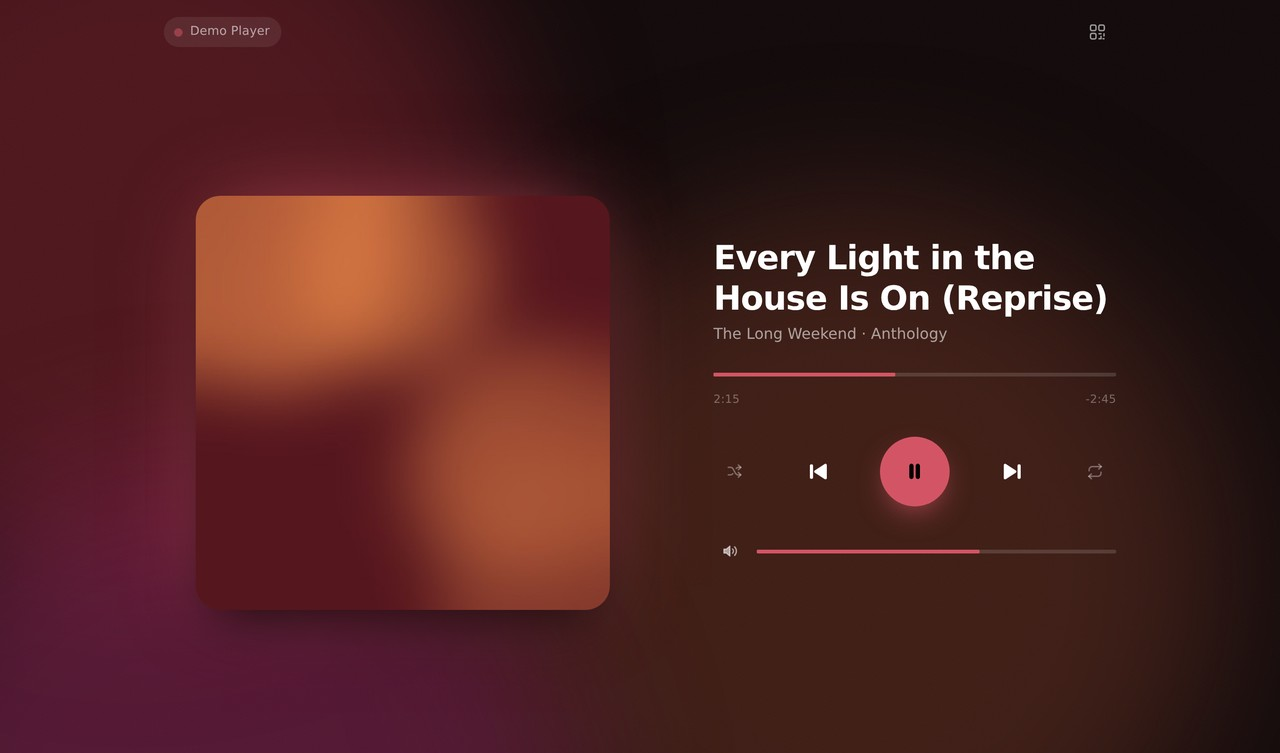
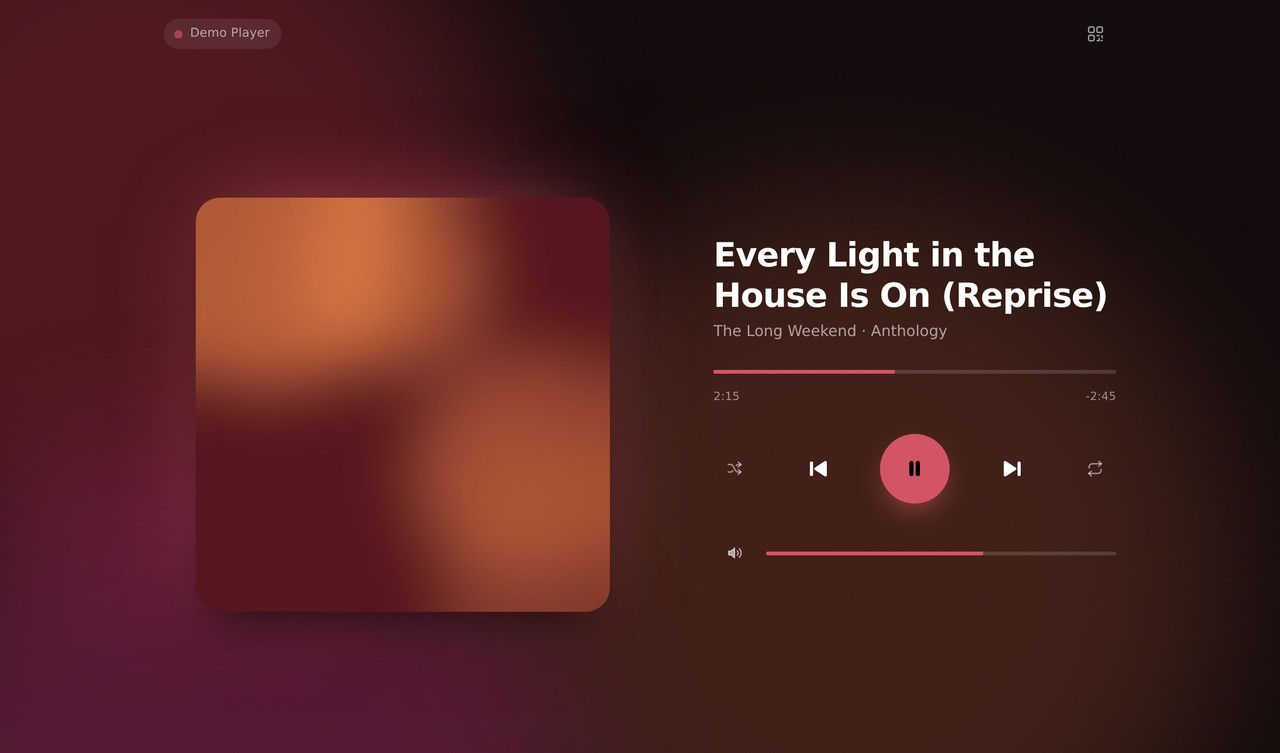
Fix layout overflow on small phones, and a sheet you could not dismiss
Found by measuring the built page rather than reading it.

The artwork was sized from the viewport, but it has to fit what is left after the
title, scrubber, transport and volume have taken theirs -- a much smaller number.
On a 360x640 Android the page overflowed by 18px and on a 320-wide split view by
44px, pushing the volume row off the bottom. The stage is now a size container and
the sleeve is measured against it, so it shrinks to fit instead. Verified at six
viewport sizes from 320x568 up: no overflow anywhere.

The sheet backdrop listener was registered with once:true, so the first tap
anywhere inside the dialog consumed it -- tap the QR code and tap-to-dismiss was
dead for good, with no back gesture to fall back on in a home-screen app. It is
registered once per sheet at boot now, and no longer accumulates a listener per
open.

Also:
- The 12px timestamps sat at 3.11:1, below AA. Split the faint ink token by role
  so text gets the readable one and icons keep the lighter.
- Every control is now at least 44px to a thumb, expanded around the rails and
  the source chip rather than by making them look chunkier.
- Reduced motion was blanket-killing transitions, including the cross-fades that
  are the accepted substitute for motion; it now removes movement and keeps fades.
- The ambient blobs no longer animate scale, which forced a large blurred layer to
  be re-rasterised; translation alone does not.
[…]

diff --git a/static/app.css b/static/app.css
@@ -15,7 +15,11 @@
 
   --ink: #ffffff;
   --ink-dim: rgba(255, 255, 255, 0.58);
-  --ink-faint: rgba(255, 255, 255, 0.34);
+  /* Two faint tokens, split by role. Composited over the lightest background the
+     palette can produce, alpha 0.34 gives 3.11:1 -- fine for an icon, a failure for
+     the 12px timestamps. Text uses the heavier one. */
+  --ink-faint: rgba(255, 255, 255, 0.5);
+  --ink-ghost: rgba(255, 255, 255, 0.34);
   --surface: rgba(255, 255, 255, 0.08);
   --surface-firm: rgba(255, 255, 255, 0.14);
 
@@ -78,9 +82,11 @@ body {
 .ambience span:nth-child(2) { background: var(--glow-2); top: 34%; left: 42%; animation: drift-b 41s ease-in-out infinite; }
 .ambience span:nth-child(3) { background: var(--glow-3); top: 58%; left: 8%;  animation: drift-c 47s ease-in-out infinite; }
 
-@keyframes drift-a { 50% { transform: translate3d(14%, 10%, 0) scale(1.14); } }
-@keyframes drift-b { 50% { transform: translate3d(-16%, 12%, 0) scale(0.88); } }
-@keyframes drift-c { 50% { transform: translate3d(10%, -14%, 0) scale(1.1); } }
+/* Translation only. Animating scale changes the raster scale of a blurred layer,
+   which forces the compositor to redraw it; moving it does not. */
+@keyframes drift-a { 50% { transform: translate3d(16%, 12%, 0); } }
+@keyframes drift-b { 50% { transform: translate3d(-18%, 14%, 0); } }
+@keyframes drift-c { 50% { transform: translate3d(12%, -16%, 0); } }
 
 /* A whisper of grain stops large gradients from banding on 8-bit panels. */
 .grain {
@@ -133,6 +139,17 @@ body {
 }
 .source:hover { background: var(--surface-firm); color: var(--ink); }
 .source[hidden] { display: none; }
+.source:disabled { cursor: default; }
+/* The pill draws 32px tall, which reads right in the header but is under the 44px a
+   thumb needs. Grow the target rather than the chip. */
+.source { position: relative; }
+.source::after {
+  content: "";
+  position: absolute;
+  inset-inline: 0;
+  top: -6px;
+  bottom: -6px;
+}
 .source .label { overflow: hidden; text-overflow: ellipsis; white-space: nowrap; }
 
 .link {
@@ -151,7 +168,7 @@ body[data-link="lost"]  .link { background: #f0a13c; animation: pulse 1s var(--e
 .chip {
   display: inline-grid;
   place-items: center;
-  width: 40px; height: 40px;
+  width: 44px; height: 44px;
   padding: 0;
   border: 0;
   border-radius: 50%;
@@ -167,15 +184,26 @@ body[data-link="lost"]  .link { background: #f0a13c; animation: pulse 1s var(--e
 /* -------------------------------------------------------------- album art -- */
 
 .stage {
-  flex: 1 1 auto;
+  /* `1 1 0` rather than `1 1 auto`: the stage must take the leftover space rather than
+     ask its contents how big they are, which is also what makes it a valid size
+     container below. */
+  flex: 1 1 0;
   display: grid;
   place-items: center;
   min-height: 0;
 }
 
+@supports (container-type: size) {
+  .stage { container-type: size; }
+}
+
 .art {
   position: relative;
-  width: min(82vw, 48vh, 400px);
+  /* Fallback for browsers without container queries. A viewport fraction always
+     over-estimates: on a 360x640 phone the artwork has to fit what is left after the
+     title, scrubber, transport and volume have taken theirs, which is far less than
+     half the screen -- and the page overflowed by 18px because of it. */
+  width: min(82vw, 44vh, 400px);
   aspect-ratio: 1;
   border-radius: clamp(14px, 4.5vw, 26px);
   background: rgba(255, 255, 255, 0.05);
@@ -184,6 +212,9 @@ body[data-link="lost"]  .link { background: #f0a13c; animation: pulse 1s var(--e
   box-shadow: 0 26px 60px -18px rgba(0, 0, 0, 0.85), 0 0 90px -26px var(--accent);
   transform: scale(1);
   transition: transform 620ms var(--ease-out), box-shadow var(--tint);
+  /* cqmin is the smaller edge of the stage itself, so the sleeve is measured against
+     the room it actually has. */
+  width: min(96cqmin, 400px);
   overflow: hidden;
   isolation: isolate;
 }
@@ -254,6 +285,16 @@ body[data-status="stopped"] .art { transform: scale(0.9); }
   align-items: center;
   cursor: pointer;
   touch-action: none;                 /* we own the drag */
+}
+/* The rail draws 4px but must be catchable by a thumb, so the target is grown to 44px
+   without moving anything. Events on a pseudo-element are dispatched to its own
+   element, so this needs no extra markup. */
+.rail::after {
+  content: "";
+  position: absolute;
+  inset-inline: 0;
+  top: -11px;
+  bottom: -11px;
 }
 .rail::before {
   content: "";
@@ -368,7 +409,7 @@ body[data-status="stopped"] .art { transform: scale(0.9); }
 .volume[hidden] { display: none; }
 .volume .rail { flex: 1 1 auto; }
 .volume .mute {
-  width: 34px; height: 34px;
+  width: 44px; height: 44px;
   display: grid; place-items: center;
   border: 0; padding: 0; border-radius: 50%;
   background: transparent; color: var(--ink-dim);
@@ -411,7 +452,7 @@ body[data-status="unavailable"] .volume { display: none; }
 
 .empty h2 { margin: 0; font-size: 19px; font-weight: 600; letter-spacing: -0.01em; }
 .empty p { margin: 0; max-width: 27ch; color: var(--ink-dim); font-size: 14px; line-height: 1.5; }
-.empty svg { width: 40px; height: 40px; color: var(--ink-faint); margin-bottom: 4px; }
+.empty svg { width: 40px; height: 40px; color: var(--ink-ghost); margin-bottom: 4px; }
 
 /* ------------------------------------------------------------------ sheet -- */
 
@@ -507,7 +548,7 @@ body[data-status="unavailable"] .volume { display: none; }
 }
 .sources button:hover { background: var(--surface-firm); }
 .sources button[aria-current="true"] { background: color-mix(in srgb, var(--accent) 24%, transparent); }
-.sources .dot { width: 7px; height: 7px; flex: none; border-radius: 50%; background: var(--ink-faint); }
+.sources .dot { width: 7px; height: 7px; flex: none; border-radius: 50%; background: var(--ink-ghost); }
 .sources button[aria-current="true"] .dot { background: var(--accent); }
 .sources .name { flex: 1 1 auto; overflow: hidden; text-overflow: ellipsis; white-space: nowrap; }
 .sources .now { font-size: 12px; color: var(--ink-faint); }
@@ -517,7 +558,7 @@ body[data-status="unavailable"] .volume { display: none; }
 .toast {
   position: fixed;
   left: 50%;
-  bottom: calc(22px + env(safe-area-inset-bottom));
+  bottom: max(22px, env(safe-area-inset-bottom));
   z-index: 40;
   translate: -50% 0;
   padding: 9px 16px;
@@ -536,7 +577,7 @@ body[data-status="unavailable"] .volume { display: none; }
    On a desktop the controls sit beside the artwork rather than stretching a phone
    layout across a monitor. */
 
-@media (min-width: 720px) and (orientation: landscape) {
+@media (min-width: 720px) and (min-height: 480px) {
   .shell {
     display: grid;
     grid-template-columns: minmax(0, 0.95fr) minmax(300px, 0.8fr);
@@ -562,7 +603,7 @@ body[data-status="unavailable"] .volume { display: none; }
 
 /* Everything outside the wide layout keeps the natural column order. */
 .side { display: contents; }
-@media (min-width: 720px) and (orientation: landscape) { .side { display: flex; } }
+@media (min-width: 720px) and (min-height: 480px) { .side { display: flex; } }
 
 /* --------------------------------------------------------------- a11y ------ */
 
@@ -578,10 +619,13 @@ body[data-status="unavailable"] .volume { display: none; }
 }
 
 @media (prefers-reduced-motion: reduce) {
-  *, *::before, *::after {
-    animation-duration: 0.01ms !important;
-    animation-iteration-count: 1 !important;
-    transition-duration: 0.01ms !important;
-  }
-  .ambience span { animation: none; }
+  /* Movement is the thing to remove. A cross-fade is the accepted substitute for it,
+     so blanket-killing every transition would leave hard cuts between colour schemes
+     -- more jarring than the motion it was meant to spare. Fades and tints stay. */
+  *, *::before, *::after { animation: none !important; }
+  .ambience span { transform: none !important; }
+  .art { transform: none !important; }
+  .key:active, .chip:active, .volume .mute:active { transform: none !important; }
+  .sheet .panel { animation: none !important; }
+  .toast { transition: opacity 240ms var(--ease); }
 }

diff --git a/static/app.js b/static/app.js
@@ -91,8 +91,9 @@
    * and pen in one path, and pointer capture keeps the drag alive when a thumb slides
    * off the 22px strip -- which it always does. */
 
-  function makeRail(rail, fill, knob, { onPreview, onCommit, enabled }) {
+  function makeRail(rail, fill, knob, { onPreview, onCommit, enabled, describe }) {
     let dragging = false;
+    let commitTimer = 0;
 
     const ratioAt = (event) => {
       const box = rail.getBoundingClientRect();
@@ -103,6 +104,8 @@
       fill.style.transform = `scaleX(${ratio})`;
       knob.style.left = `${ratio * 100}%`;
       rail.setAttribute('aria-valuenow', Math.round(ratio * 100));
+      // Without this a screen reader says "47" for a position that means "1:32 of 3:20".
+      if (describe) rail.setAttribute('aria-valuetext', describe(ratio));
     };
 
     rail.addEventListener('pointerdown', (event) => {
@@ -144,7 +147,11 @@
       else if (event.key === 'End') next = 1;
       else return;
       event.preventDefault();
-      paint(next); onPreview(next); onCommit(next);
+      paint(next); onPreview(next);
+      // Held arrow keys repeat many times a second; preview each one but only send the
+      // position the user settles on.
+      clearTimeout(commitTimer);
+      commitTimer = setTimeout(() => onCommit(next), 180);
     });
 
     return { paint, isDragging: () => dragging };
@@ -159,6 +166,12 @@
 
   const seekRail = makeRail(el.seek, el.seekFill, el.seekKnob, {
     enabled: seekable,
+    describe: (ratio) => {
+      const duration = state ? state.timeline.duration : 0;
+      return duration > 0
+        ? `${formatTime(ratio * duration)} of ${formatTime(duration)}`
+        : formatTime(livePosition());
+    },
     onPreview: (ratio) => { scrubPreview = ratio * state.timeline.duration; renderTime(); },
     onCommit: (ratio) => {
       const seconds = ratio * state.timeline.duration;
@@ -213,6 +226,7 @@
 
   const volRail = makeRail(el.vol, el.volFill, el.volKnob, {
     enabled: () => !!(state && state.volume.available),
+    describe: (ratio) => `${Math.round(ratio * 100)}% volume`,
     onPreview: (ratio) => { volumePreview = ratio; },
     onCommit: (ratio) => {
       volumePreview = ratio;
@@ -367,15 +381,37 @@
 
   let source = null;
   let lostSince = 0;
+  let retry = 0;
+  let retryTimer = 0;
+
+  // Backoff matters more than it looks. Every open stream holds a server worker thread
+  // for its whole life, and a dropped one is not noticed until the next keepalive write
+  // ~15s later -- so a phone that retries every two seconds through a real outage stacks
+  // up zombie subscribers faster than they can be reaped. Backing off to 30s keeps a
+  // flapping client from starving the very pool it needs to reconnect through.
+  const RETRY_MIN = 1000;
+  const RETRY_MAX = 30000;
+
+  function scheduleReconnect() {
+    if (retryTimer) return;
+    // Exponential with full jitter, so several phones that dropped together when the PC
+    // slept do not all come back on the same tick.
+    const ceiling = Math.min(RETRY_MAX, RETRY_MIN * 2 ** retry);
+    const delay = RETRY_MIN + Math.random() * (ceiling - RETRY_MIN);
+    retry = Math.min(retry + 1, 6);
+    retryTimer = setTimeout(() => { retryTimer = 0; connect(); }, delay);
+  }
 
   function connect() {
+    if (retryTimer) { clearTimeout(retryTimer); retryTimer = 0; }
     if (source) { try { source.close(); } catch (_) { /* already closed */ } }
     source = new EventSource('/events', { withCredentials: true });
 
-    source.onopen = () => { lostSince = 0; body.dataset.link = 'live'; };
+    source.onopen = () => { lostSince = 0; retry = 0; body.dataset.link = 'live'; };
 
     source.onmessage = (event) => {
       lostSince = 0;
+      retry = 0;
       body.dataset.link = 'live';
       try { apply(JSON.parse(event.data)); } catch (_) { /* ignore a partial frame */ }
     };
@@ -384,7 +420,9 @@
       // A blip is not worth showing; a real outage is.
       if (!lostSince) lostSince = Date.now();
       if (Date.now() - lostSince > 1500) body.dataset.link = 'lost';
-      if (source.readyState === EventSource.CLOSED) setTimeout(connect, 2000);
+      // EventSource reconnects itself while the connection is merely interrupted; once
+      // it gives up and closes, reconnecting is ours to do -- on a backoff.
+      if (source.readyState === EventSource.CLOSED) scheduleReconnect();
     };
   }
 
@@ -439,11 +477,17 @@
 
   function openSheet(sheet) {
     sheet.showModal();
-    // A tap on the backdrop lands on the dialog itself, not the panel inside it.
+  }
+
+  // A tap on the backdrop lands on the dialog element itself rather than the panel
+  // inside it, which is what distinguishes the two. Registered once per sheet: doing it
+  // per-open with `once` meant the first tap *inside* the panel silently consumed the
+  // listener, leaving no way out on a phone with no back gesture.
+  [el.pairSheet, el.sourceSheet].forEach((sheet) => {
     sheet.addEventListener('click', (event) => {
       if (event.target === sheet) sheet.close();
-    }, { once: true });
-  }
+    });
+  });
 
   el.source.addEventListener('click', () => { if (!el.source.disabled) openSheet(el.sourceSheet); });
 

diff --git a/templates/remote.html b/templates/remote.html
@@ -11,7 +11,7 @@
 <meta name="apple-mobile-web-app-capable" content="yes">
 <meta name="apple-mobile-web-app-status-bar-style" content="black-translucent">
 <meta name="apple-mobile-web-app-title" content="WeRV">
-<link rel="manifest" href="/manifest.webmanifest">
+<link rel="manifest" href="/manifest.webmanifest" crossorigin="use-credentials">
 <link rel="icon" href="/icon.svg" type="image/svg+xml">
 <link rel="apple-touch-icon" href="/icon-180.png">
 <link rel="stylesheet" href="/static/app.css?v={{ version }}">

diff --git a/werv/server.py b/werv/server.py
@@ -127,12 +127,20 @@ def create_app(hub: MediaHub, *, token: str | None, port: int, quiet: bool = Tru
 
     @app.get("/manifest.webmanifest")
     def manifest():
+        # A home-screen app gets its own cookie jar on iOS, so the pairing cookie set in
+        # Safari does not travel with it -- the installed icon would open straight onto
+        # the pair screen. Hand a requester that is ALREADY paired a start_url which
+        # re-pairs the copy it is about to install. An unpaired one learns nothing.
+        start = f"/?k={token}" if (token is not None and authorised()) else "/"
         return jsonify({
+            "id": "/",
             "name": "WeRV Remote",
             "short_name": "WeRV",
-            "start_url": "/",
+            "description": "Control whatever is playing on your PC.",
+            "start_url": start,
             "scope": "/",
             "display": "standalone",
+            "display_override": ["fullscreen", "standalone"],
             "orientation": "portrait",
             "background_color": "#0b0b0f",
             "theme_color": "#0b0b0f",
